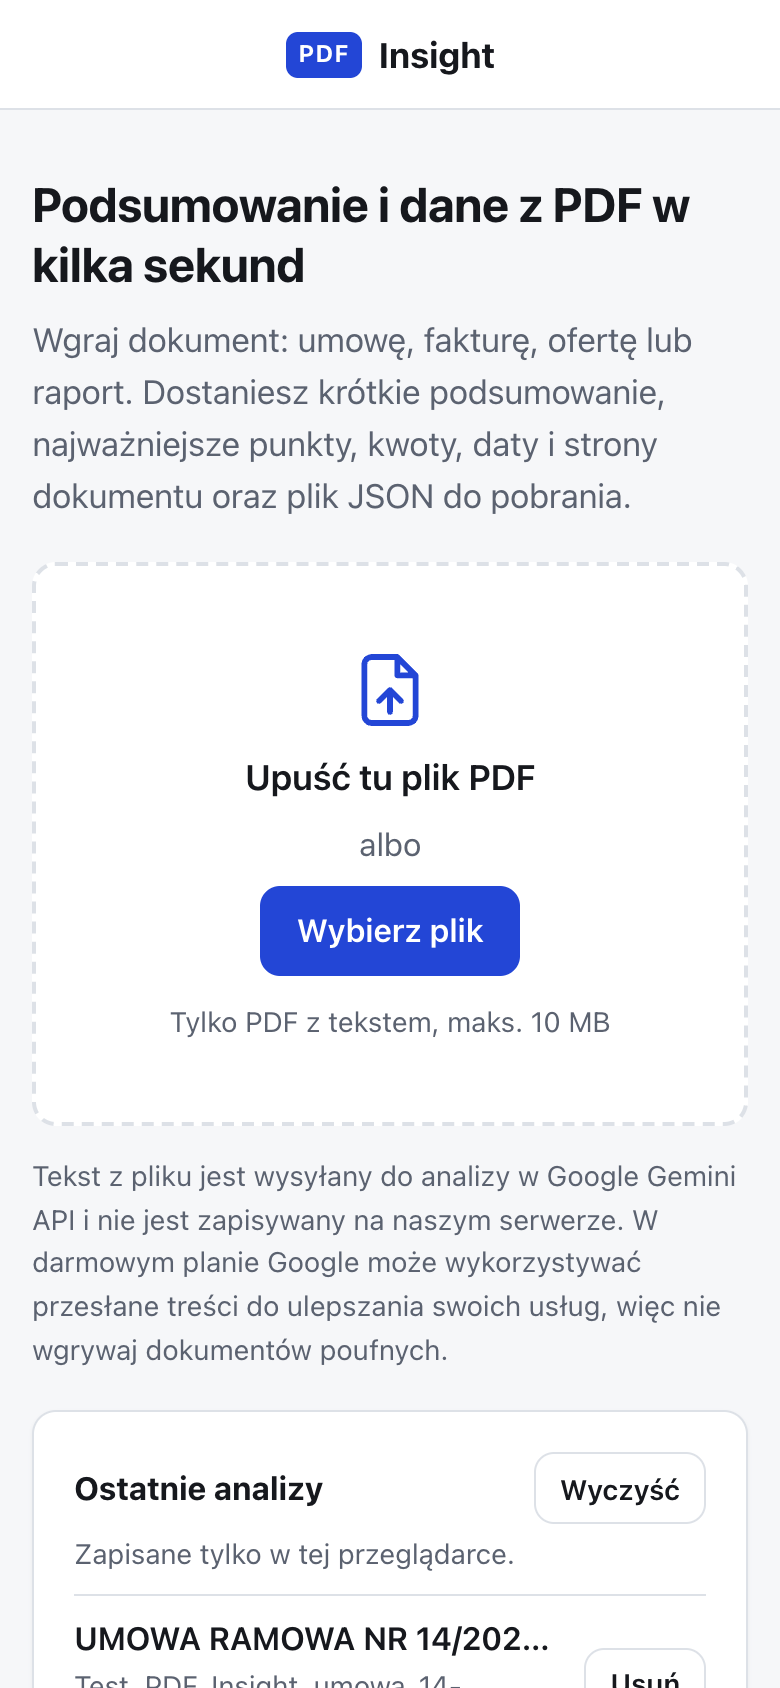
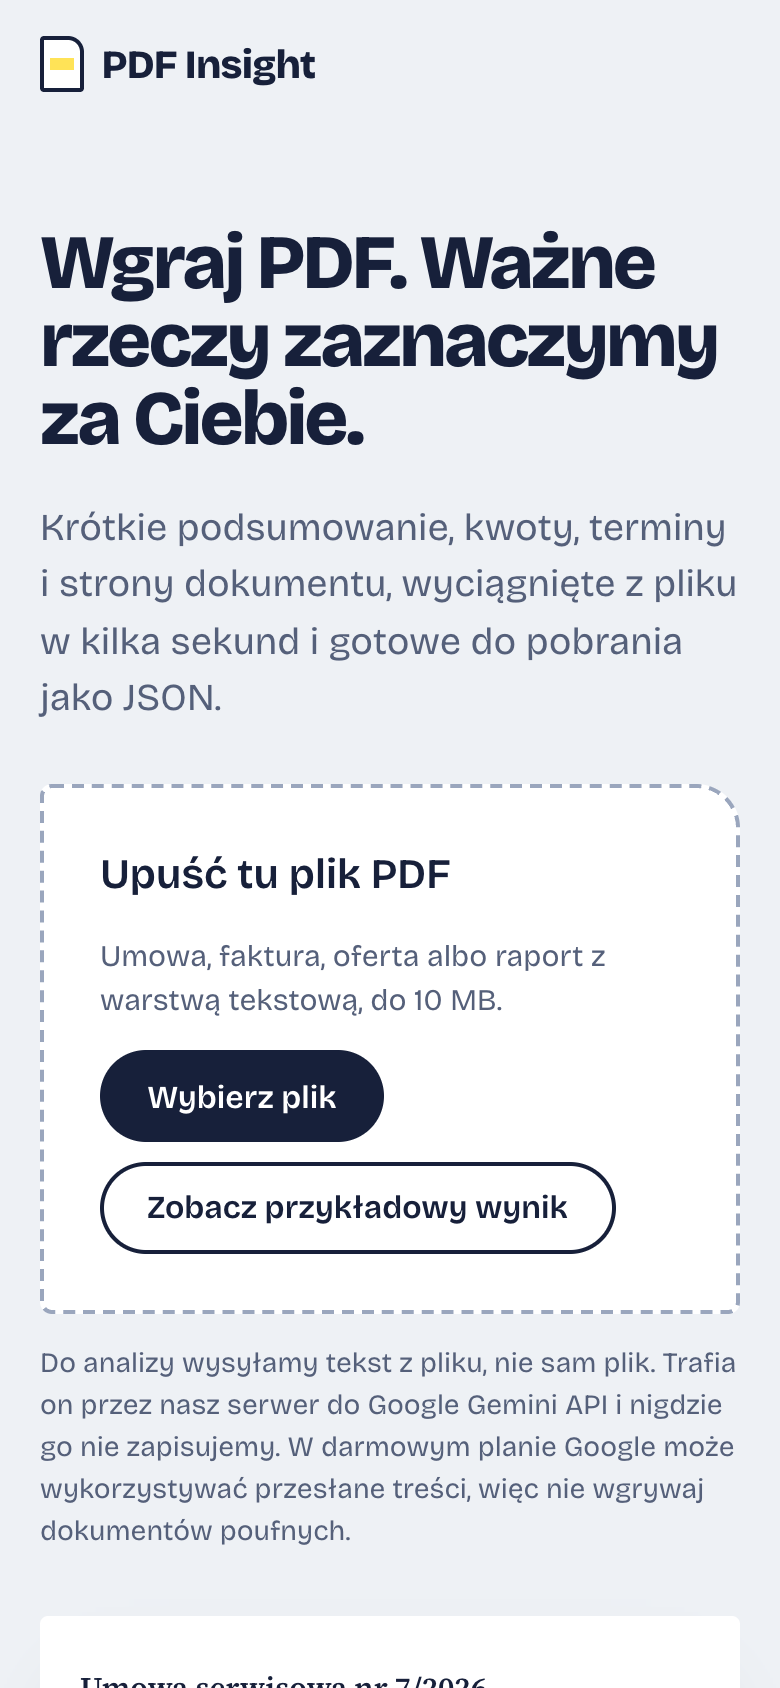
docs: opis wygladu, nowe zrzuty ekranu, AI_LOG

diff --git a/AI_LOG.md b/AI_LOG.md
@@ -26,6 +26,8 @@ Decyzje architektoniczne są opisane w README.
 
 5. **Weryfikacja UX** (krok z planu, w przeglądarce wbudowanej w Claude Code) - cały przepływ i widok na telefonie 375 px: stan ładowania z krokami i licznikiem sekund, wynik, brak poziomego przewijania, zapis historii.
 
+6. **Wyróżnienie się wyglądem** - _„Jeżeli inni kandydaci też będą to pisać z Claude, to czy nie powinniśmy się czymś wyróżnić, na zasadzie wyglądu strony?”_ oraz _„Pokaż mi, jak to zaplanujesz, zanim zaakceptuję”_. Claude Code (z umiejętnością `frontend-design`) przygotował trzy makiety HTML z tą samą treścią: A „Zakreślacz”, B „Przekładnia” (dokument obok ciemnego panelu danych), C „Formularz” (urzędowy formularz z rubrykami i pieczątką). Wybrałem A, bo jako jedyna robi coś dla użytkownika - zaznaczenia w podsumowaniu pokazują, skąd pochodzą dane.
+
 ## Gdzie AI się pomyliło i jak to poprawiłem
 
 | Błąd                                                                                                                                                                                                                                                                              | Jak wykryty                                                                                                                                                                                                   | Poprawka                                                                                                                                                                                                                                                                                                                                  |
@@ -45,6 +47,7 @@ Decyzje architektoniczne są opisane w README.
 | Diagnoza „modelu przeciążonego” była błędna: `gemini-3.5-flash` zwracał 429, bo **na darmowym planie ma tylko 20 zapytań dziennie** - testy (moje i agentów) wyczerpały go w jeden wieczór, więc większość analiz szła przez słabszy model zapasowy.                              | Drugi agent (ocena według kryteriów z briefu) zauważył, że 4 z 6 analiz poszły przez model zapasowy; potem odczyt szczegółów błędu 429 z API (`GenerateRequestsPerDayPerProjectPerModel-FreeTier`, limit 20). | Porównanie modeli na umowie: `gemini-3.5-flash-lite` - 16/16 kwot, pełny tytuł, 6-10 s. Ustawiony jako główny, łańcuch zapasowy `3.5-flash` › `3.1-flash-lite` ze wspólnym budżetem czasu, temperatura 0. Ponawianie tego samego modelu przy limicie dziennym nic by nie dało.                                                            |
 | Model zamienił „3 czerwca 2024 r.” (data starej umowy) na `2026-06-03` i wstawiał cały cennik.                                                                                                                                                                                    | Przegląd listy kwot i dat z nowego modelu.                                                                                                                                                                    | W prompcie: przepisywać rok dokładnie, nie dodawać dat innych, starszych dokumentów, z cennika maks. 5 pozycji. Rok poprawiony; cennik model nadal czasem podaje w całości (kwoty są prawdziwe, ale lista dłuższa).                                                                                                                       |
 | Licznik zdań (walidacja „3-5 zdań”) w pierwszej wersji usuwał kropki po skrótach i przez to nie widział końca zdania po „sp. z o.o.” czy „S.A.” - poprawne podsumowania z 4 zdaniami liczył jako 2.                                                                               | Sprawdzenie licznika na 14 prawdziwych podsumowaniach z testów, zanim walidacja trafiła do aplikacji.                                                                                                         | Granica zdania = kropka + wielka litera, z wyjątkiem inicjałów i skrótów typu „ul.”, „nr”, „dr”. Wszystkie 14 podsumowań: 4 zdania; testy na przypadki brzegowe.                                                                                                                                                                          |
+| Przy pierwszym wdrożeniu nowego wyglądu oś czasu pokazywała na górze daty z tła (poprzednia umowa z 2024 r.), a pierwszą kwotą był kapitał zakładowy.                                                                                                                             | Przegląd zrzutu ekranu z prawdziwym wynikiem umowy.                                                                                                                                                           | Oś czasu w podglądzie pokazuje najpierw daty od dnia dokumentu; kapitał zakładowy i powtórzenia usuwa deterministyczny filtr w kodzie (`clean.ts`) z testem.                                                                                                                                                                              |
 
 ## Czego pilnowałem sam
 

diff --git a/README.md b/README.md
@@ -23,6 +23,12 @@ Przeglądarka (GitHub Pages)                 Cloudflare Worker                 G
 3. **Analiza AI** - do backendu idzie sam tekst, nie plik. Worker wywołuje Gemini w trybie _structured output_ (schemat odpowiedzi), a frontend waliduje wynik schematem Zod. Odpowiedź niezgodna ze schematem: 1 ponowna próba, potem komunikat błędu.
 4. **Wynik** - podsumowanie, punkty, kwoty, daty, organizacje, osoby, słowa kluczowe, podgląd JSON i pobranie pliku `.json`. Ostatnie 8 analiz zostaje w `localStorage`.
 
+Bez własnego pliku można kliknąć **„Zobacz przykładowy wynik”** - to gotowy, ręcznie przygotowany wynik dla fikcyjnej umowy, wyraźnie oznaczony i niewysyłany do AI.
+
+### Wygląd: zakreślacz
+
+Motywem jest to, co człowiek robi z wydrukiem umowy - zaznacza ważne rzeczy. **Kolor oznacza typ danych**: żółty to kwoty, niebieski daty, różowy strony i osoby, zielony słowa kluczowe. W podsumowaniu kwoty, daty i nazwy są zaznaczone tym samym kolorem co odpowiadające im dane (przyciski nad tekstem je włączają i wyłączają) - widać, z czego wzięły się wyciągnięte wartości. Zaznaczenia liczy kod w przeglądarce ([`src/lib/highlight.ts`](src/lib/highlight.ts)), z odpornością na polską odmianę nazw, bez dodatkowych zapytań do AI. Typografia: Bricolage Grotesque (interfejs) i Source Serif 4 (treść dokumentu); tryb jasny i ciemny, widok od 360 px, jedna animacja (zakreślacz przy ładowaniu) wyłączana przez `prefers-reduced-motion`.
+
 Na umowie testowej (12 stron) cała analiza trwała w testach na żywo 6-10 s (model główny).
 
 ## Format wyniku
@@ -70,6 +76,7 @@ Schemat: [`src/lib/schema.ts`](src/lib/schema.ts) (Zod). Daty ISO 8601, waluty I
 | **`fileName` i `pages` z pliku, nie z AI**                               | To fakty znane bez modelu - model ich nie zgaduje.                                                                                                                                                                                                                                                                             |
 | **Długie dokumenty: fragmenty po stronach**                              | Tekst powyżej 60 tys. znaków jest dzielony na granicach stron, fragmenty analizowane po 2 naraz, listy łączone bez duplikatów, a podsumowanie całości powstaje z wyników fragmentów.                                                                                                                                           |
 | **Bez routera**                                                          | Aplikacja ma jeden widok ze stanami, więc problem routingu na GitHub Pages nie występuje. `base: '/pdf-insight/'` w `vite.config.ts`, worker pdf.js importowany przez `?url`, więc ścieżka uwzględnia `base`.                                                                                                                  |
+| **Deterministyczne porządki po AI**                                      | Model czasem łamie reguły promptu, więc kod po walidacji usuwa kapitał zakładowy z kwot i powtórzenia kwot/dat ([`src/lib/clean.ts`](src/lib/clean.ts)). Prompt to prośba, kod to gwarancja.                                                                                                                                   |
 
 ## Bezpieczeństwo
 
